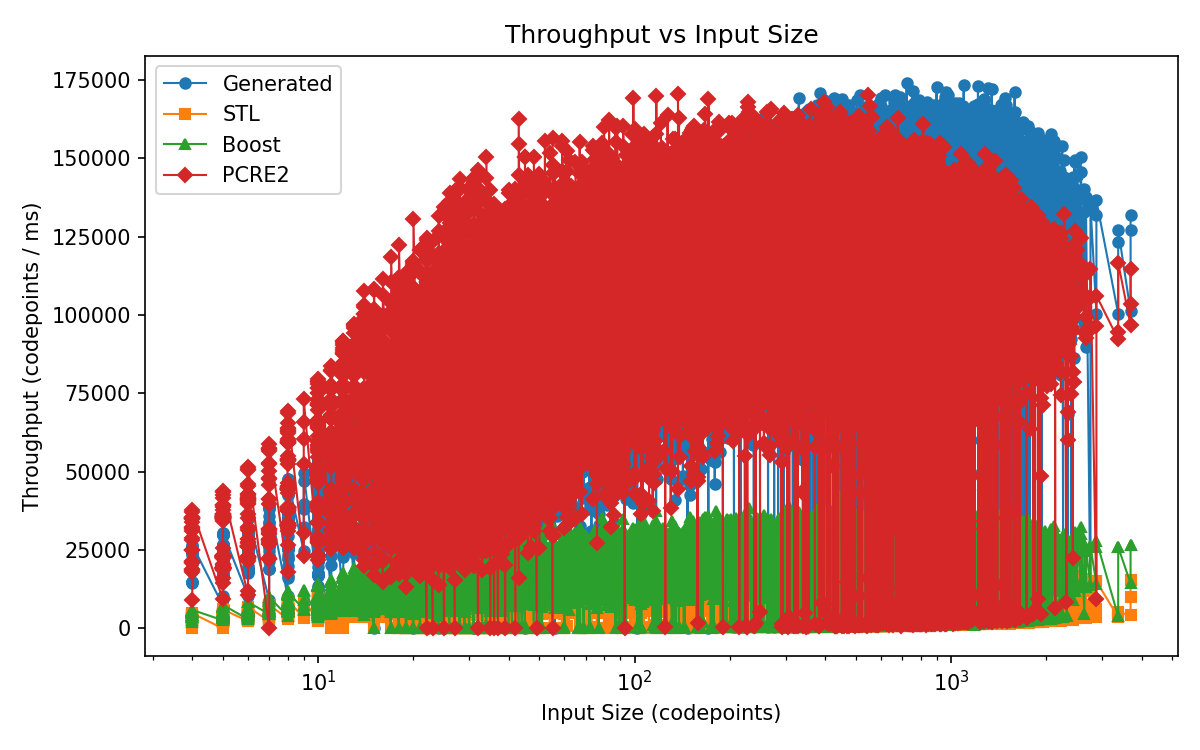
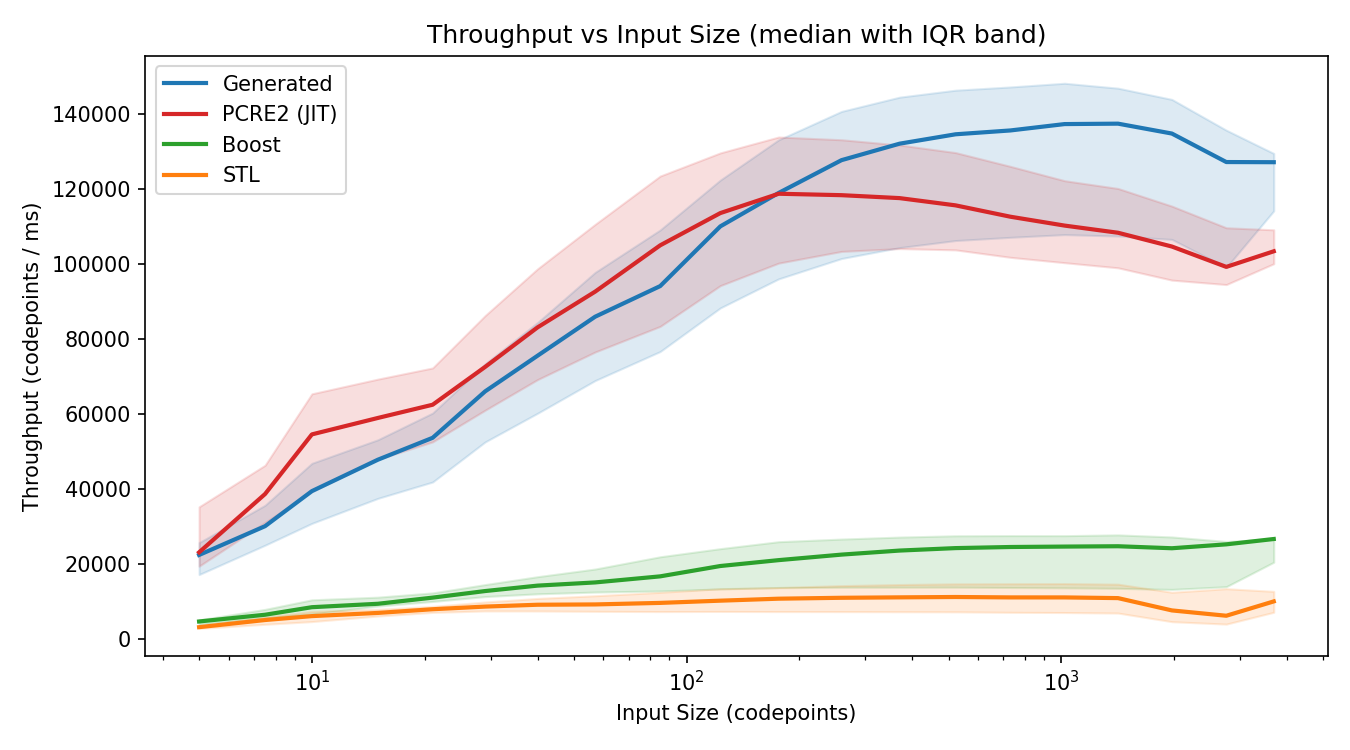
Update charts

diff --git a/run.py b/run.py
@@ -431,68 +431,68 @@ _MODE_DEFAULTS = {
 }
 
 
-def _plot_speedup_bars(bench_data: list[tuple[str, dict]], output_dir: Path,
-                       fmt: str, dpi: int):
-    """Grouped bar chart of speedup factors per pattern."""
+def _plot_timing_bars(bench_data: list[tuple[str, dict]], output_dir: Path,
+                      fmt: str, dpi: int):
+    """Horizontal grouped bar chart showing total time per engine per pattern."""
     import matplotlib.pyplot as plt
     import numpy as np
 
-    engines = []
     engine_keys = [
-        ("STL", "average_speedup_vs_stl"),
-        ("Boost", "average_speedup_vs_boost"),
-        ("PCRE2", "average_speedup_vs_pcre2"),
+        ("Generated", "total_generated_ms", "tab:blue"),
+        ("PCRE2 (JIT)", "total_pcre2_ms", "tab:red"),
+        ("Boost", "total_boost_ms", "tab:green"),
+        ("STL", "total_stl_ms", "tab:orange"),
     ]
-    # Only include engines that have non-zero speedup in at least one file
-    for label, key in engine_keys:
-        if any(d["summary"].get(key, 0) > 0 for _, d in bench_data):
-            engines.append((label, key))
+    # Only include engines that have non-zero time in at least one file
+    engines = [(label, key, color) for label, key, color in engine_keys
+               if any(d["summary"].get(key, 0) > 0 for _, d in bench_data)]
 
     if not engines:
-        print("Warning: No speedup data found, skipping speedup chart")
+        print("Warning: No timing data found, skipping timing chart")
         return
 
-    labels = [name for name, _ in bench_data]
-    x = np.arange(len(labels))
-    width = 0.8 / len(engines)
+    # Strip _benchmark suffix from labels
+    labels = [name.removesuffix("_benchmark") for name, _ in bench_data]
+    y = np.arange(len(labels))
+    height = 0.8 / len(engines)
 
-    fig, ax = plt.subplots(figsize=(max(6, len(labels) * 2), 5))
+    fig, ax = plt.subplots(figsize=(10, max(3, len(labels) * 1.5)))
 
-    for i, (engine_label, key) in enumerate(engines):
+    for i, (engine_label, key, color) in enumerate(engines):
         values = [d["summary"].get(key, 0) for _, d in bench_data]
-        offset = (i - len(engines) / 2 + 0.5) * width
-        bars = ax.bar(x + offset, values, width, label=engine_label)
-        # Value labels on bars
+        offset = (i - len(engines) / 2 + 0.5) * height
+        bars = ax.barh(y + offset, values, height, label=engine_label, color=color)
+        # Value labels at end of bars
         for bar, val in zip(bars, values):
             if val > 0:
-                ax.text(bar.get_x() + bar.get_width() / 2, bar.get_height() + 0.1,
-                        f"{val:.1f}x", ha="center", va="bottom", fontsize=8)
+                ax.text(bar.get_width() + ax.get_xlim()[1] * 0.01,
+                        bar.get_y() + bar.get_height() / 2,
+                        f"{val:.0f}ms", ha="left", va="center", fontsize=8)
 
-    ax.axhline(y=1.0, color="gray", linestyle="--", linewidth=0.8, label="1x (parity)")
-    ax.set_xlabel("Pattern")
-    ax.set_ylabel("Speedup (Generated vs Engine)")
-    ax.set_title("Generated C++ Speedup vs Regex Engines")
-    ax.set_xticks(x)
-    ax.set_xticklabels(labels, rotation=30, ha="right")
-    ax.legend()
-    ax.set_ylim(bottom=0)
+    ax.set_xlabel("Total Time (ms)")
+    ax.set_title("Total Execution Time by Engine (lower is better)")
+    ax.set_yticks(y)
+    ax.set_yticklabels(labels)
+    ax.legend(loc="lower right")
+    ax.set_xlim(right=ax.get_xlim()[1] * 1.15)  # room for labels
     fig.tight_layout()
 
-    out_path = output_dir / f"speedup_bars.{fmt}"
+    out_path = output_dir / f"timing_bars.{fmt}"
     fig.savefig(out_path, dpi=dpi)
     print(f"Saved: {out_path}")
 
 
 def _plot_throughput_vs_size(bench_data: list[tuple[str, dict]], output_dir: Path,
                              fmt: str, dpi: int):
-    """Scatter+line: throughput (codepoints/ms) vs input size for each engine."""
+    """Throughput vs input size: median line with IQR band, bucketed by size."""
     import matplotlib.pyplot as plt
+    import numpy as np
 
     engine_configs = [
-        ("Generated", "generated", "o", "tab:blue"),
-        ("STL", "stl_regex", "s", "tab:orange"),
-        ("Boost", "boost_regex", "^", "tab:green"),
-        ("PCRE2", "pcre2", "D", "tab:red"),
+        ("Generated", "generated", "tab:blue"),
+        ("PCRE2 (JIT)", "pcre2", "tab:red"),
+        ("Boost", "boost_regex", "tab:green"),
+        ("STL", "stl_regex", "tab:orange"),
     ]
 
     # Collect all (size, throughput) points per engine across all files
@@ -501,51 +501,70 @@ def _plot_throughput_vs_size(bench_data: list[tuple[str, dict]], output_dir: Pat
     for _, data in bench_data:
         iterations = data.get("iterations", 1)
         for r in data.get("results", []):
-            # Get input size in codepoints (fallback: byte length of input string)
             size_cp = r.get("input_length_codepoints")
             if size_cp is None:
                 size_cp = len(r.get("input", ""))
             if size_cp == 0:
                 continue
 
-            for label, key, _, _ in engine_configs:
+            for label, key, _ in engine_configs:
                 engine = r.get(key, {})
                 if not engine.get("success", False):
                     continue
                 time_ms = engine.get("time_ms", 0)
                 if time_ms <= 0:
                     continue
-                # throughput = codepoints per ms (averaged over iterations)
                 throughput = (size_cp * iterations) / time_ms
                 series[label].append((size_cp, throughput))
 
-    # Only plot engines that have data
     has_data = {label for label, pts in series.items() if pts}
     if not has_data:
         print("Warning: No throughput data found, skipping throughput chart")
         return
 
-    fig, ax = plt.subplots(figsize=(8, 5))
+    # Create log-spaced bins for bucketing
+    all_sizes = []
+    for pts in series.values():
+        all_sizes.extend(s for s, _ in pts)
+    if not all_sizes:
+        return
+    bin_edges = np.logspace(np.log10(max(1, min(all_sizes))),
+                            np.log10(max(all_sizes)), 20)
 
-    sizes_all = []
-    for label, key, marker, color in engine_configs:
+    fig, ax = plt.subplots(figsize=(9, 5))
+
+    for label, key, color in engine_configs:
         pts = series[label]
         if not pts:
             continue
-        pts.sort()
-        xs, ys = zip(*pts)
-        sizes_all.extend(xs)
-        ax.plot(xs, ys, marker=marker, color=color, label=label, markersize=5, linewidth=1)
+        sizes = np.array([s for s, _ in pts])
+        thrpts = np.array([t for _, t in pts])
 
-    # Use log x-axis if sizes span >10x
-    if sizes_all:
-        mn, mx = min(sizes_all), max(sizes_all)
-        if mx > mn * 10:
-            ax.set_xscale("log")
+        # Bucket into bins, compute median + IQR
+        bin_indices = np.digitize(sizes, bin_edges)
+        bin_centers, medians, q25s, q75s = [], [], [], []
+        for bi in range(1, len(bin_edges) + 1):
+            mask = bin_indices == bi
+            if mask.sum() < 3:
+                continue
+            bucket = thrpts[mask]
+            center = np.median(sizes[mask])
+            bin_centers.append(center)
+            medians.append(np.median(bucket))
+            q25s.append(np.percentile(bucket, 25))
+            q75s.append(np.percentile(bucket, 75))
 
+        if not bin_centers:
+            continue
+        bc = np.array(bin_centers)
+        med = np.array(medians)
+        ax.plot(bc, med, color=color, label=label, linewidth=2)
+        ax.fill_between(bc, q25s, q75s, alpha=0.15, color=color)
+
+    ax.set_xscale("log")
     ax.set_xlabel("Input Size (codepoints)")
     ax.set_ylabel("Throughput (codepoints / ms)")
-    ax.set_title("Throughput vs Input Size")
+    ax.set_title("Throughput vs Input Size (median with IQR band)")
     ax.legend()
     fig.tight_layout()
 
@@ -593,7 +612,7 @@ def cmd_plot(args) -> int:
     output_dir = Path(args.output_dir)
     output_dir.mkdir(parents=True, exist_ok=True)
 
-    _plot_speedup_bars(bench_data, output_dir, args.format, args.dpi)
+    _plot_timing_bars(bench_data, output_dir, args.format, args.dpi)
     _plot_throughput_vs_size(bench_data, output_dir, args.format, args.dpi)
 
     if not args.no_show:

diff --git a/README.md b/README.md
@@ -75,7 +75,7 @@ gpt4o     |   6757ms  |  59696ms  | 25654ms |  6898ms |  8.8x  |   3.8x   |  1.0
 
 Zero token mismatches against PCRE2 across all patterns.
 
-![Speedup comparison across patterns](results/charts/speedup_bars.png)
+![Total execution time by engine](results/charts/timing_bars.png)
 
 ![Throughput vs input size](results/charts/throughput_vs_size.png)
 
